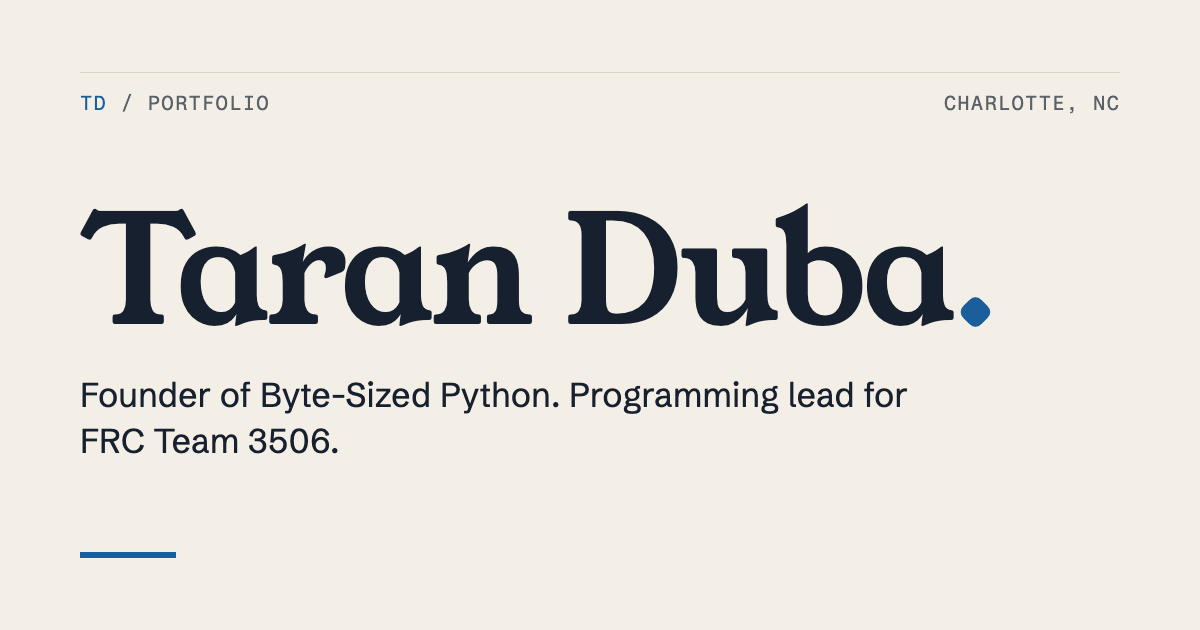
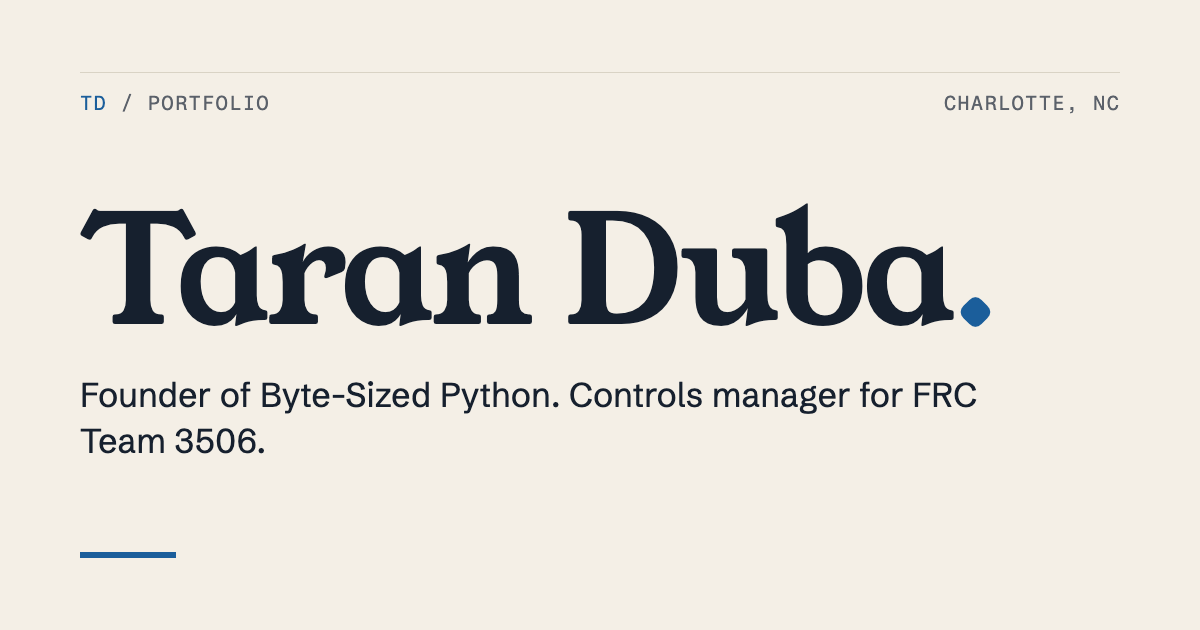
Update role to Controls Manager (programming and electrical)

Changed region(s): [[0.4625, 0.6032, 0.8017, 0.6635], [0.0617, 0.6635, 0.2775, 0.7238]]

diff --git a/content/site.ts b/content/site.ts
@@ -20,12 +20,12 @@ export const siteConfig = {
   name: "Taran Duba",
   shortName: "TD",
   /** One line under the name in the hero, and the default meta description lead. */
-  descriptor: "Founder of Byte-Sized Python. Programming lead for FRC Team 3506.",
+  descriptor: "Founder of Byte-Sized Python. Controls manager for FRC Team 3506.",
   /** Two sentence hero intro. */
   intro:
-    "I’m a high school student in Charlotte, North Carolina. I started a nonprofit that teaches Python to students who can’t pay for classes, and I lead the programming subteam on YETI Robotics.",
+    "I’m a high school student in Charlotte, North Carolina. I started a nonprofit that teaches Python to students who can’t pay for classes, and I manage programming and electrical on YETI Robotics.",
   metaDescription:
-    "Taran Duba is a high school student in Charlotte, NC. He founded Byte-Sized Python, a 501(c)(3) teaching Python to students who can’t afford paid classes, and leads programming for FRC Team 3506.",
+    "Taran Duba is a high school student in Charlotte, NC. He founded Byte-Sized Python, a 501(c)(3) teaching Python to students who can’t afford paid classes, and is controls manager for FRC Team 3506, overseeing programming and electrical.",
 
   location: "Charlotte, NC",
   school: "Providence High School",
@@ -41,7 +41,7 @@ export const siteConfig = {
    * Resume button target. While this is "TODO", both resume buttons are hidden.
    * Export the resume from Word as public/resume.pdf, then set this to "/resume.pdf".
    */
-  resumePath: "TODO: export the resume to public/resume.pdf, then set this to /resume.pdf",
+  resumePath: "/resume.pdf",
   ogImagePath: "/og.png",
 
   /**
@@ -68,15 +68,14 @@ export const about = {
     // The first paragraph is the large section heading. Keep it short.
     "I teach Python and write code for robots.",
     "Paid coding classes cost money a lot of students don’t have. I founded Byte-Sized Python, a 501(c)(3) nonprofit, so that cost doesn’t decide who gets to learn. In summer 2025 I designed and taught a five-day course with more than 40 exercises to over 70 students. Across Charlotte and abroad we’ve now taught more than 200, and Koda, the AI tutor we built for lower-end hardware, has supported more than 330.",
-    "On YETI Robotics (FRC Team 3506) I lead a 15-person programming subteam and have written Java for every subsystem on the robot, from shooter flywheels to articulated arms. Our autonomous routines added about 50 points a match, part of how the team won two district championships and its division at the 2026 FIRST World Championship.",
+    "On YETI Robotics (FRC Team 3506) I’m the controls manager, which means I run both programming and electrical. I lead a 15-person programming subteam and have written Java for every subsystem on the robot, from shooter flywheels to articulated arms. Our autonomous routines added about 50 points a match, part of how the team won two district championships and its division at the 2026 FIRST World Championship.",
     "I’m in the Class of 2028 at Providence High School. The areas I want to go deeper in are AI, robotics, and data science, and I’m looking for research and internship work in them.",
   ],
   outsideOfCode: {
     intro: "Outside of code",
     items: [
       { topic: "Cars", detail: "TODO: what you’re into (a car, a builder, a race series)" },
-      { topic: "Fashion and style", detail: "TODO: a specific detail about your style" },
-      { topic: "Music", detail: "TODO: artists or what’s on repeat" },
+      { topic: "Music", detail: "Don Toliver, Kanye West, Travis Scott" },
     ] satisfies OutsideItem[],
   },
 };

diff --git a/content/projects.ts b/content/projects.ts
@@ -133,12 +133,12 @@ export const projects: Project[] = [
   },
   {
     slug: "yeti-robotics",
-    title: "YETI Robotics programming",
+    title: "YETI Robotics controls",
     kind: "FRC Team 3506",
-    summary: "Leading a 15-person programming subteam on a team that won its division at the 2026 FIRST World Championship.",
-    role: "Programming Lead",
+    summary: "Managing programming and electrical, and leading a 15-person programming subteam, on a team that won its division at the 2026 FIRST World Championship.",
+    role: "Controls Manager (programming and electrical)",
     timeframe: "Fall 2024 to present",
-    tags: ["FRC", "Java", "WPILib", "Computer vision", "Controls"],
+    tags: ["FRC", "Java", "WPILib", "Computer vision", "Controls", "Electrical"],
     links: [
       { label: "sim-sandbox on GitHub", href: "https://github.com/yeti-robotics/sim-sandbox" },
       { label: "MapleSim port for WPILib 2027", href: "https://github.com/yeti-robotics/maple-sim-2027-alpha2" },
@@ -150,7 +150,7 @@ export const projects: Project[] = [
       problem: {
         paragraphs: [
           "An FRC robot has to know where it is on the field, aim and shoot accurately from anywhere, and keep doing all of it through a full match without its battery voltage sagging into a brownout.",
-          "I lead a 15-person programming subteam, so the work is as much about splitting problems up and reviewing code as writing it. Build season runs more than 21 hours a week, and I put in over 600 hours a year alongside a full course load.",
+          "As controls manager I run both programming and electrical, and I lead the 15-person programming subteam, so the work is as much about splitting problems up and reviewing code as writing it. Build season runs more than 21 hours a week, and I put in over 600 hours a year alongside a full course load.",
         ],
       },
       built: {
@@ -196,7 +196,7 @@ export const projects: Project[] = [
         ],
       },
       learned: {
-        paragraphs: ["TODO: two or three sentences on what leading the programming subteam taught you."],
+        paragraphs: ["TODO: two or three sentences on what managing programming and electrical taught you."],
       },
       callout: { text: "Our autonomous routines added about 50 points a match.", attribution: "YETI Robotics, FRC Team 3506" },
       gallery: [

diff --git a/content/experience.ts b/content/experience.ts
@@ -22,11 +22,11 @@ export const experience: Experience[] = [
     href: "/projects/byte-sized-python/",
   },
   {
-    role: "Programming Lead",
+    role: "Controls Manager",
     organization: "YETI Robotics, FRC Team 3506",
     years: "2024 to present",
     lines: [
-      "Lead a 15-person programming subteam and write Java for every robot subsystem, plus vision, auto-alignment, and localization.",
+      "Manage both the programming and electrical teams. Lead a 15-person programming subteam and write Java for every robot subsystem, plus vision, auto-alignment, and localization.",
       "600+ hours a year. First on the team in community volunteering, with 140+ hours.",
     ],
     href: "/projects/yeti-robotics/",

diff --git a/scripts/assets/og.html b/scripts/assets/og.html
@@ -28,7 +28,7 @@
   <div class="top"><span><b>TD</b> / Portfolio</span><span>Charlotte, NC</span></div>
   <div>
     <h1>Taran Duba<span>.</span></h1>
-    <p>Founder of Byte-Sized Python. Programming lead for FRC Team 3506.</p>
+    <p>Founder of Byte-Sized Python. Controls manager for FRC Team 3506.</p>
   </div>
   <div class="rule"></div>
 </body>

diff --git a/TODO.md b/TODO.md
@@ -55,7 +55,7 @@ gallery slots. Sizes are in the README. Each slot's `src` in `content/projects.t
 | `caseStudy.built.bullets` AprilTag vision | Which you chose (PhotonVision or Limelight) and why. |
 | `caseStudy.built.bullets` Brownout prevention | The approach (current limits, load shedding, etc.). |
 | `caseStudy.howItWorks.paragraphs` | Confirm the description (pose fused with odometry via Kalman filter, then used to aim and pick flywheel speed) matches the robot. |
-| `caseStudy.learned.paragraphs` | Two or three sentences on what leading the subteam taught you. |
+| `caseStudy.learned.paragraphs` | Two or three sentences on what managing programming and electrical taught you. |
 
 ## Other projects (`content/projects.ts`)
 
